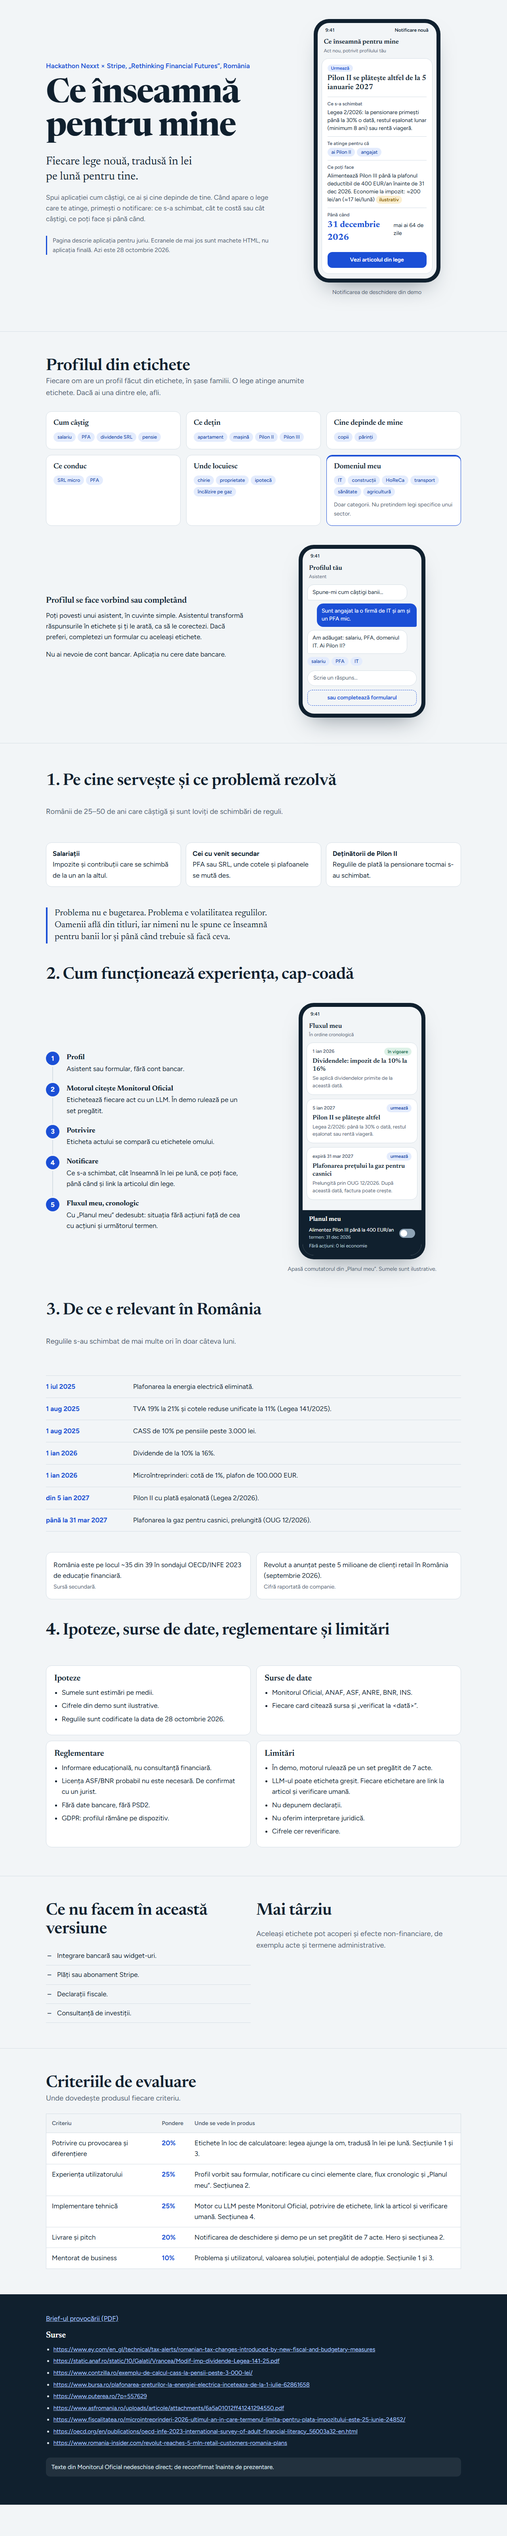
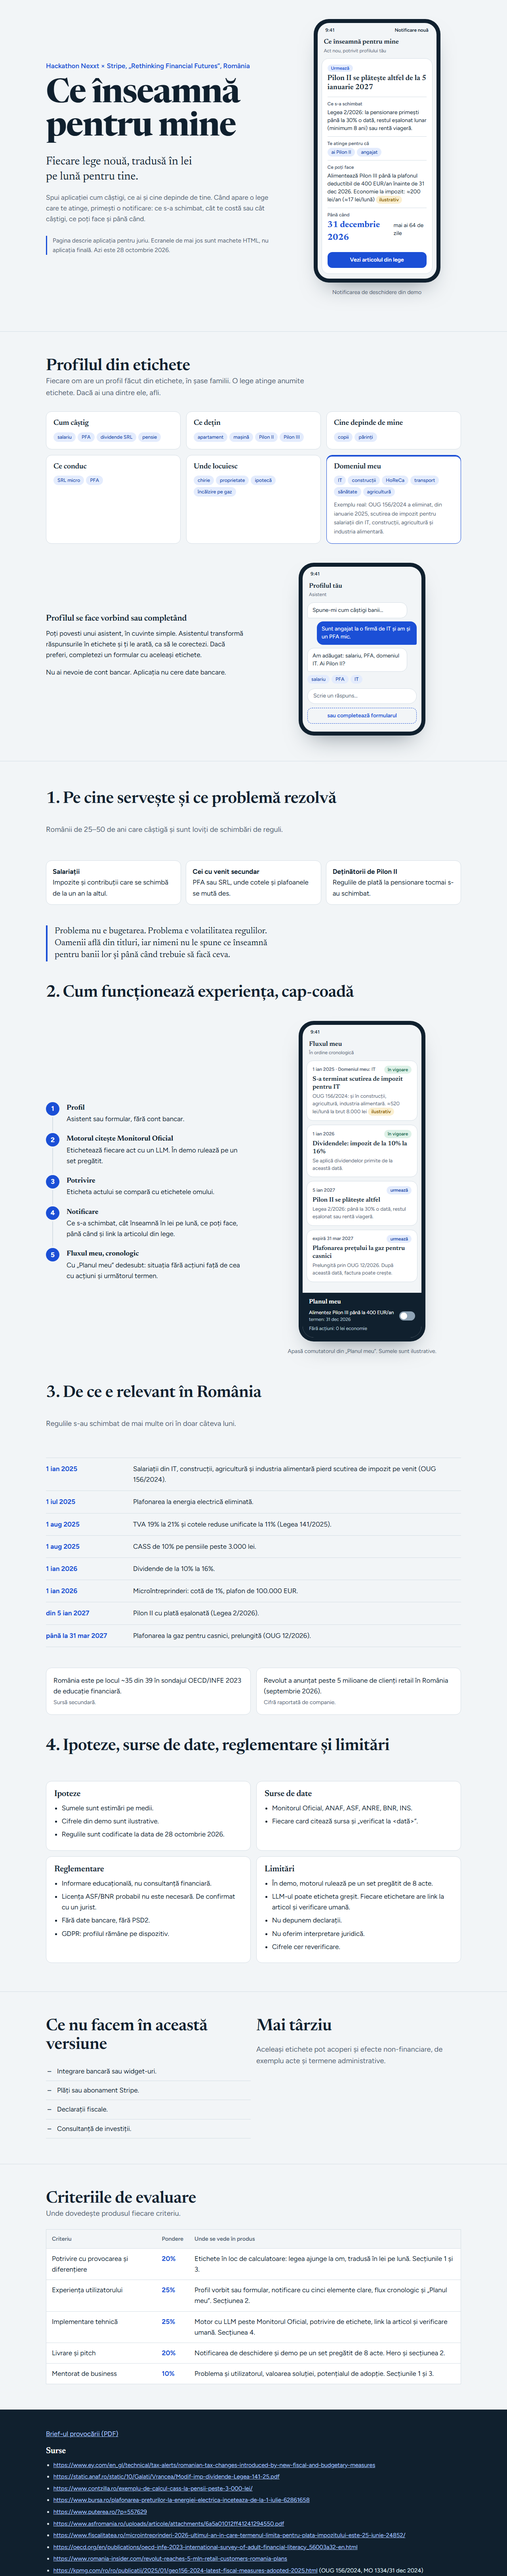
Exemplu real pentru eticheta de domeniu: OUG 156/2024
Card în flux, rând în lista din secțiunea 3, sursă KPMG/Economica.
Scoasă nota „Doar categorii”. Setul din demo are acum 8 acte.

diff --git a/mockup/descriere.html b/mockup/descriere.html
@@ -204,7 +204,7 @@ footer li{margin-bottom:6px;font-size:.92rem}
       <div class="fam"><h3>Cine depinde de mine</h3><div class="chips"><span class="chip">copii</span><span class="chip">părinți</span></div></div>
       <div class="fam"><h3>Ce conduc</h3><div class="chips"><span class="chip">SRL micro</span><span class="chip">PFA</span></div></div>
       <div class="fam"><h3>Unde locuiesc</h3><div class="chips"><span class="chip">chirie</span><span class="chip">proprietate</span><span class="chip">ipotecă</span><span class="chip">încălzire pe gaz</span></div></div>
-      <div class="fam new"><h3>Domeniul meu</h3><div class="chips"><span class="chip">IT</span><span class="chip">construcții</span><span class="chip">HoReCa</span><span class="chip">transport</span><span class="chip">sănătate</span><span class="chip">agricultură</span></div><p style="margin:10px 0 0;font-size:.88rem;color:var(--muted)">Doar categorii. Nu pretindem legi specifice unui sector.</p></div>
+      <div class="fam new"><h3>Domeniul meu</h3><div class="chips"><span class="chip">IT</span><span class="chip">construcții</span><span class="chip">HoReCa</span><span class="chip">transport</span><span class="chip">sănătate</span><span class="chip">agricultură</span></div><p style="margin:10px 0 0;font-size:.88rem;color:var(--muted)">Exemplu real: OUG 156/2024 a eliminat, din ianuarie 2025, scutirea de impozit pentru salariații din IT, construcții, agricultură și industria alimentară.</p></div>
     </div>
 
     <div class="split">
@@ -261,6 +261,7 @@ footer li{margin-bottom:6px;font-size:.92rem}
               <div class="statusbar"><span>9:41</span><span></span></div>
               <div class="appbar">Fluxul meu<small>În ordine cronologică</small></div>
               <div class="feed">
+                <div class="card"><div class="top"><span class="date">1 ian 2025 · Domeniul meu: IT</span><span class="status now">în vigoare</span></div><h5>S-a terminat scutirea de impozit pentru IT</h5><p>OUG 156/2024: și în construcții, agricultură, industria alimentară. ≈520 lei/lună la brut 8.000 lei <span class="tag-ilustrativ">ilustrativ</span></p></div>
                 <div class="card"><div class="top"><span class="date">1 ian 2026</span><span class="status now">în vigoare</span></div><h5>Dividendele: impozit de la 10% la 16%</h5><p>Se aplică dividendelor primite de la această dată.</p></div>
                 <div class="card"><div class="top"><span class="date">5 ian 2027</span><span class="status next">urmează</span></div><h5>Pilon II se plătește altfel</h5><p>Legea 2/2026: până la 30% o dată, restul eșalonat sau rentă viageră.</p></div>
                 <div class="card"><div class="top"><span class="date">expiră 31 mar 2027</span><span class="status next">urmează</span></div><h5>Plafonarea prețului la gaz pentru casnici</h5><p>Prelungită prin OUG 12/2026. După această dată, factura poate crește.</p></div>
@@ -281,6 +282,7 @@ footer li{margin-bottom:6px;font-size:.92rem}
       <h2>3. De ce e relevant în România</h2>
       <p class="lead">Regulile s-au schimbat de mai multe ori în doar câteva luni.</p>
       <ul class="vol">
+        <li><span class="d">1 ian 2025</span><span>Salariații din IT, construcții, agricultură și industria alimentară pierd scutirea de impozit pe venit (OUG 156/2024).</span></li>
         <li><span class="d">1 iul 2025</span><span>Plafonarea la energia electrică eliminată.</span></li>
         <li><span class="d">1 aug 2025</span><span>TVA 19% la 21% și cotele reduse unificate la 11% (Legea 141/2025).</span></li>
         <li><span class="d">1 aug 2025</span><span>CASS de 10% pe pensiile peste 3.000 lei.</span></li>
@@ -311,7 +313,7 @@ footer li{margin-bottom:6px;font-size:.92rem}
           <li>Fără date bancare, fără PSD2.</li>
           <li>GDPR: profilul rămâne pe dispozitiv.</li></ul></div>
         <div class="blk"><h3>Limitări</h3><ul>
-          <li>În demo, motorul rulează pe un set pregătit de 7 acte.</li>
+          <li>În demo, motorul rulează pe un set pregătit de 8 acte.</li>
           <li>LLM-ul poate eticheta greșit. Fiecare etichetare are link la articol și verificare umană.</li>
           <li>Nu depunem declarații.</li>
           <li>Nu oferim interpretare juridică.</li>
@@ -350,7 +352,7 @@ footer li{margin-bottom:6px;font-size:.92rem}
           <tr><td>Potrivire cu provocarea și diferențiere</td><td class="pct">20%</td><td>Etichete în loc de calculatoare: legea ajunge la om, tradusă în lei pe lună. Secțiunile 1 și 3.</td></tr>
           <tr><td>Experiența utilizatorului</td><td class="pct">25%</td><td>Profil vorbit sau formular, notificare cu cinci elemente clare, flux cronologic și „Planul meu”. Secțiunea 2.</td></tr>
           <tr><td>Implementare tehnică</td><td class="pct">25%</td><td>Motor cu LLM peste Monitorul Oficial, potrivire de etichete, link la articol și verificare umană. Secțiunea 4.</td></tr>
-          <tr><td>Livrare și pitch</td><td class="pct">20%</td><td>Notificarea de deschidere și demo pe un set pregătit de 7 acte. Hero și secțiunea 2.</td></tr>
+          <tr><td>Livrare și pitch</td><td class="pct">20%</td><td>Notificarea de deschidere și demo pe un set pregătit de 8 acte. Hero și secțiunea 2.</td></tr>
           <tr><td>Mentorat de business</td><td class="pct">10%</td><td>Problema și utilizatorul, valoarea soluției, potențialul de adopție. Secțiunile 1 și 3.</td></tr>
         </tbody>
       </table>
@@ -374,6 +376,8 @@ footer li{margin-bottom:6px;font-size:.92rem}
       <li><a href="https://www.fiscalitatea.ro/microintreprinderi-2026-ultimul-an-in-care-termenul-limita-pentru-plata-impozitului-este-25-iunie-24852/">https://www.fiscalitatea.ro/microintreprinderi-2026-ultimul-an-in-care-termenul-limita-pentru-plata-impozitului-este-25-iunie-24852/</a></li>
       <li><a href="https://oecd.org/en/publications/oecd-infe-2023-international-survey-of-adult-financial-literacy_56003a32-en.html">https://oecd.org/en/publications/oecd-infe-2023-international-survey-of-adult-financial-literacy_56003a32-en.html</a></li>
       <li><a href="https://www.romania-insider.com/revolut-reaches-5-mln-retail-customers-romania-plans">https://www.romania-insider.com/revolut-reaches-5-mln-retail-customers-romania-plans</a></li>
+      <li><a href="https://kpmg.com/ro/ro/publicatii/2025/01/geo156-2024-latest-fiscal-measures-adopted-2025.html">https://kpmg.com/ro/ro/publicatii/2025/01/geo156-2024-latest-fiscal-measures-adopted-2025.html</a> (OUG 156/2024, MO 1334/31 dec 2024)</li>
+      <li><a href="https://economica.net/?p=800733">https://economica.net/?p=800733</a></li>
     </ul>
     <p class="note">Texte din Monitorul Oficial nedeschise direct; de reconfirmat înainte de prezentare.</p>
   </div>

diff --git a/.claude/session-state.md b/.claude/session-state.md
@@ -15,6 +15,7 @@ Hackathon Nexxt × Stripe "Rethinking Financial Futures" (Romania only). Product
 
 ## Done (session 2, same clone)
 - `mockup/descriere.html`: Romanian product description page for the jury (6 tag families incl. Domeniul meu, asistent/formular, LLM reads Monitorul Oficial, notificare → flux + Planul meu, standalone, no Stripe/bank), answers the 4 PDF points, criteria table, sources. Opening notification = Pilon II / Legea 2/2026 + Pilon III before 31 dec 2026.
+- Domain tag now has a real example: OUG 156/2024 (MO 1334/31 dec 2024), IT/construcții/agricultură/ind. alimentară lose income-tax exemption from Jan 2025, ≈520 lei/lună at brut 8.000 (tax only; Pilon II part not verified). Demo set is now 8 acts.
 - `docs/rethinking_financial_futures_hackathon_stripe.pdf` copied in and linked from the page. Served on port 8766 (`descriere` in launch.json). Capture: `captures/07-descriere-desktop.png`.
 
 ## Next step
